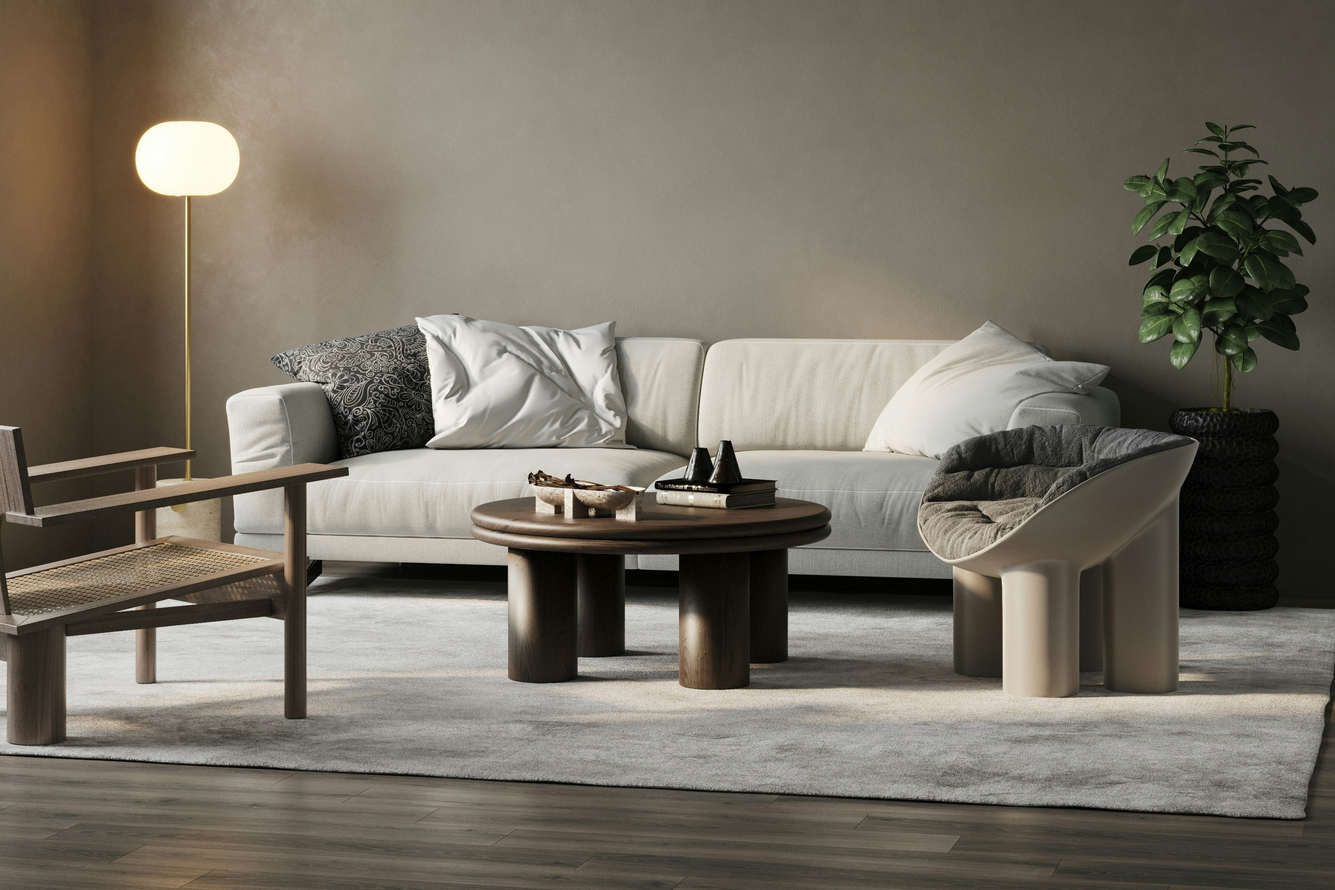
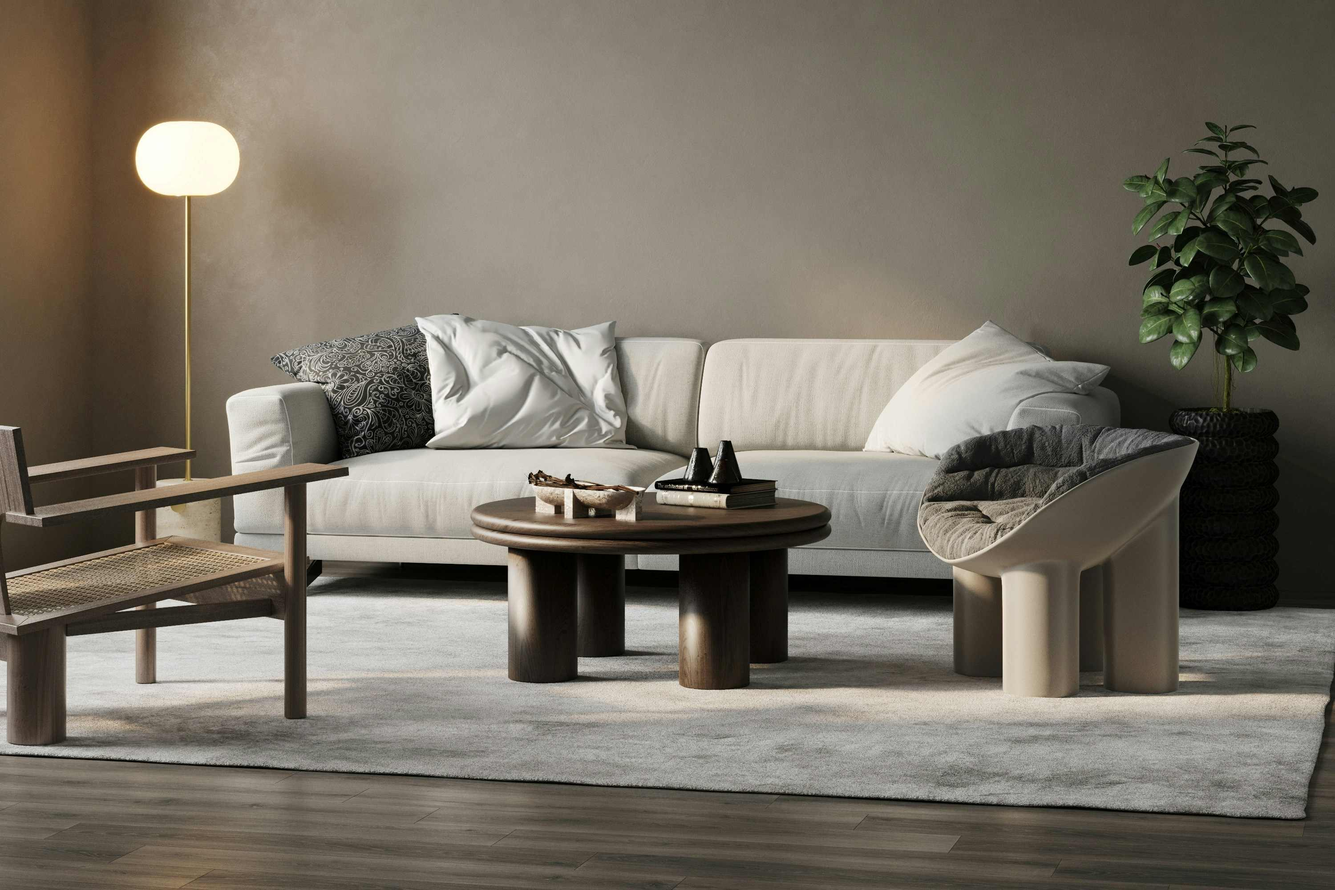
Add files via upload

Changed region(s): [[0.279, 0.372, 0.31, 0.403]]

diff --git a/privacy.htm b/privacy.htm
@@ -5,7 +5,7 @@
     <meta name="viewport" content="width=device-width, initial-scale=1.0">
     <title>Term & Conditions</title>
     <script src="https://kit.fontawesome.com/7a7115bd01.js" crossorigin="anonymous"></script>
-    
+    <link rel="icon" type="images/icon" href="images/frita.png">
     <link rel="stylesheet" href="https://maxcdn.bootstrapcdn.com/bootstrap/3.4.1/css/bootstrap.min.css">
     <style>
         @import url("css/main.css");

diff --git a/contact.htm b/contact.htm
@@ -5,7 +5,7 @@
     <meta name="viewport" content="width=device-width, initial-scale=1.0">
     <title>Contact Us</title>
     <script src="https://kit.fontawesome.com/7a7115bd01.js" crossorigin="anonymous"></script>
-    
+    <link rel="icon" type="images/icon" href="images/frita.png">
     <link rel="stylesheet" href="https://maxcdn.bootstrapcdn.com/bootstrap/3.4.1/css/bootstrap.min.css">
     <style>
         @import url("css/main.css");

diff --git a/about.htm b/about.htm
@@ -5,7 +5,7 @@
     <meta name="viewport" content="width=device-width, initial-scale=1.0">
     <title>About Us</title>
     <script src="https://kit.fontawesome.com/7a7115bd01.js" crossorigin="anonymous"></script>
-    
+    <link rel="icon" type="images/icon" href="images/frita.png">
     <link rel="stylesheet" href="https://maxcdn.bootstrapcdn.com/bootstrap/3.4.1/css/bootstrap.min.css">
     <style>
         @import url("css/main.css");

diff --git a/service.htm b/service.htm
@@ -5,7 +5,7 @@
     <meta name="viewport" content="width=device-width, initial-scale=1.0">
     <title>Services</title>
     <script src="https://kit.fontawesome.com/7a7115bd01.js" crossorigin="anonymous"></script>
-    
+    <link rel="icon" type="images/icon" href="images/frita.png">
     <link rel="stylesheet" href="https://maxcdn.bootstrapcdn.com/bootstrap/3.4.1/css/bootstrap.min.css">
     <style>
         @import url("css/main.css");

diff --git a/blog.htm b/blog.htm
@@ -5,7 +5,7 @@
     <meta name="viewport" content="width=device-width, initial-scale=1.0">
     <title>Blog</title>
     <script src="https://kit.fontawesome.com/7a7115bd01.js" crossorigin="anonymous"></script>
-    
+    <link rel="icon" type="images/icon" href="images/frita.png">
     <link rel="stylesheet" href="https://maxcdn.bootstrapcdn.com/bootstrap/3.4.1/css/bootstrap.min.css">
     <style>
         @import url("css/main.css");

diff --git a/index.htm b/index.htm
@@ -5,7 +5,7 @@
     <meta name="viewport" content="width=device-width, initial-scale=1.0">
     <title>Home</title>
     <script src="https://kit.fontawesome.com/7a7115bd01.js" crossorigin="anonymous"></script>
-    
+    <link rel="icon" type="images/icon" href="images/frita.png">
     <link rel="stylesheet" href="https://maxcdn.bootstrapcdn.com/bootstrap/3.4.1/css/bootstrap.min.css">
     <style>
         @import url("css/main.css");

diff --git a/shop.htm b/shop.htm
@@ -5,7 +5,7 @@
     <meta name="viewport" content="width=device-width, initial-scale=1.0">
     <title>Shop</title>
     <script src="https://kit.fontawesome.com/7a7115bd01.js" crossorigin="anonymous"></script>
-    
+    <link rel="icon" type="images/icon" href="images/frita.png">
     <link rel="stylesheet" href="https://maxcdn.bootstrapcdn.com/bootstrap/3.4.1/css/bootstrap.min.css">
     <style>
         @import url("css/main.css");

diff --git a/team.htm b/team.htm
@@ -5,7 +5,7 @@
     <meta name="viewport" content="width=device-width, initial-scale=1.0">
     <title>Team</title>
     <script src="https://kit.fontawesome.com/7a7115bd01.js" crossorigin="anonymous"></script>
-    
+    <link rel="icon" type="images/icon" href="images/frita.png">
     <link rel="stylesheet" href="https://maxcdn.bootstrapcdn.com/bootstrap/3.4.1/css/bootstrap.min.css">
     <style>
         @import url("css/main.css");
